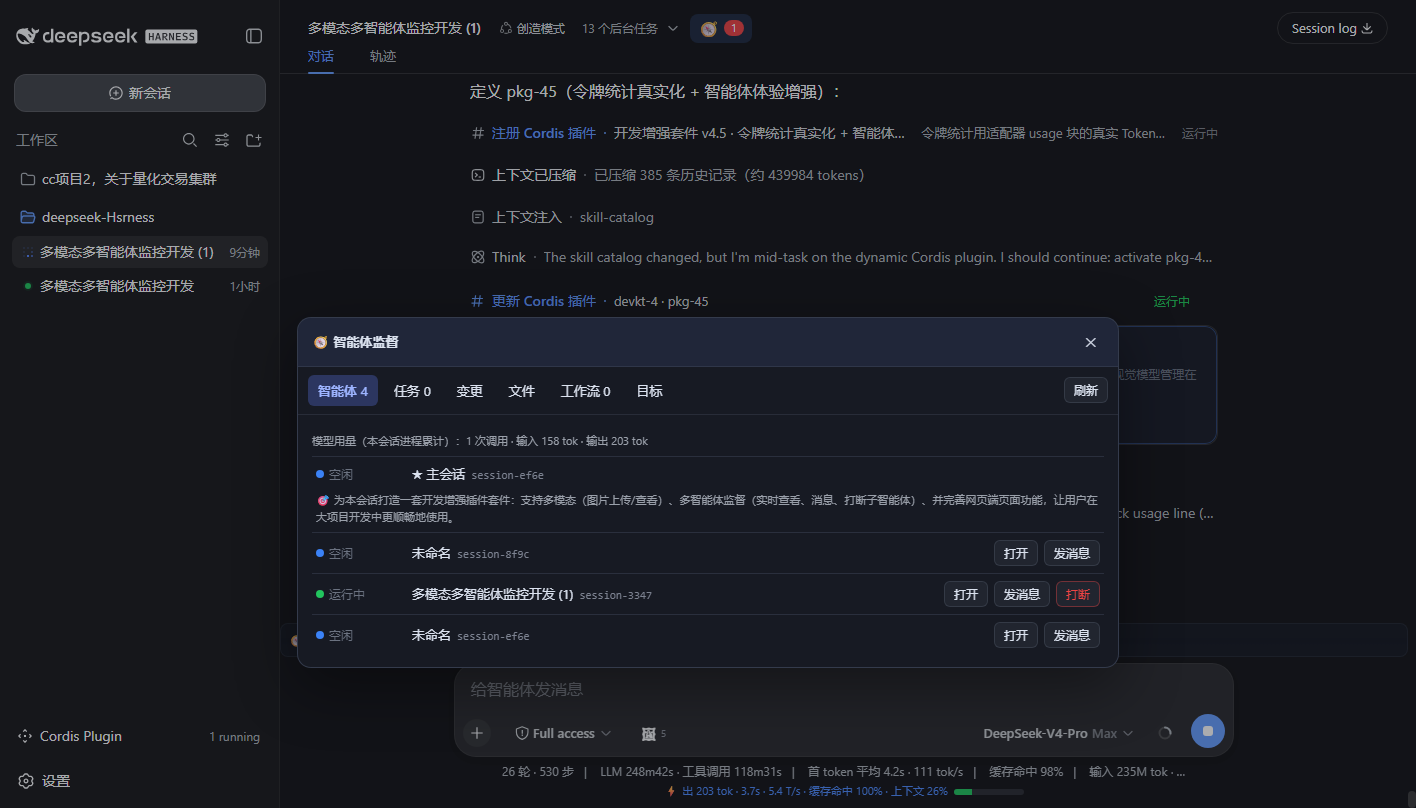
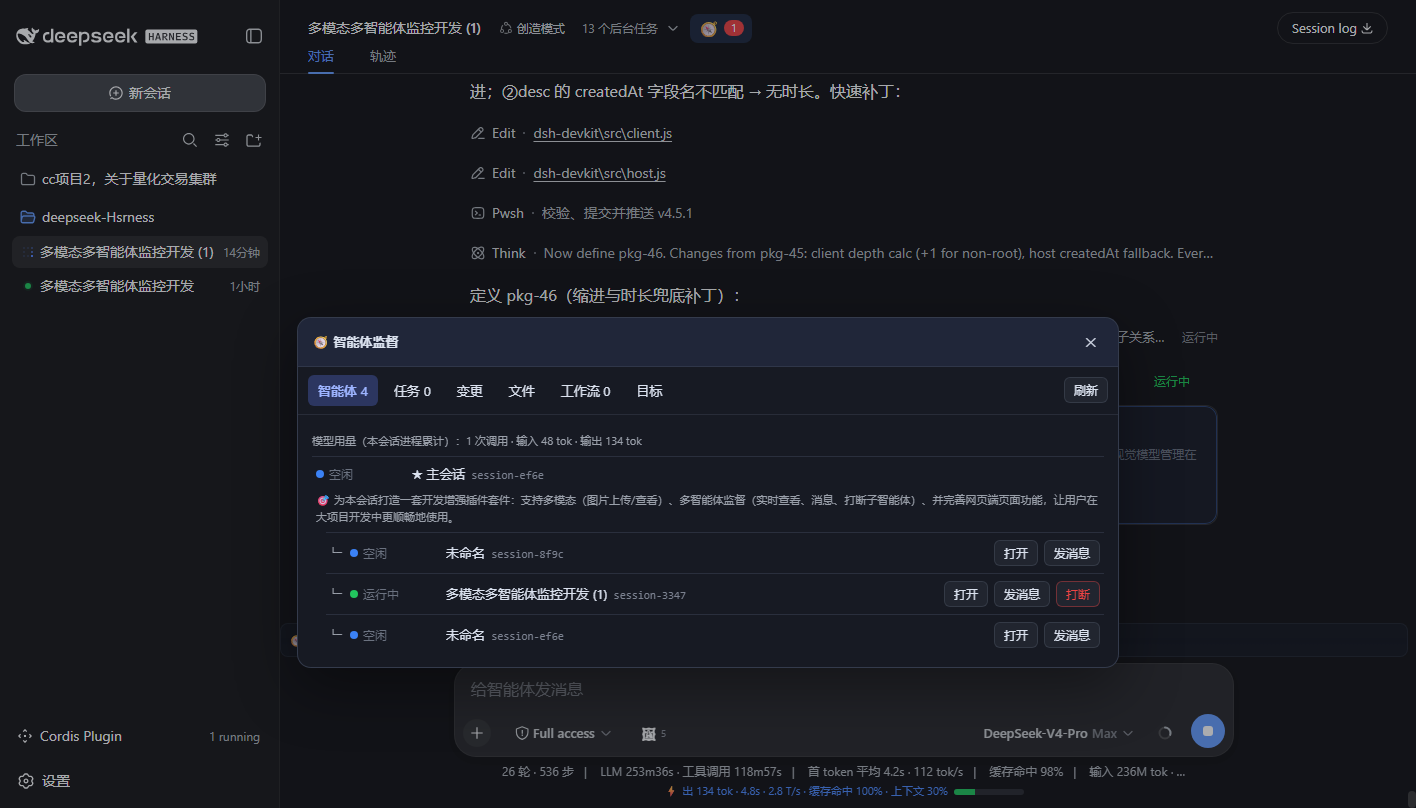
v4.5 截图与 README 更新日志

diff --git a/README.md b/README.md
@@ -120,6 +120,18 @@ dsh-devkit/
 
 ## 🕰 更新日志
 
+### v4.5（令牌统计真实化 + 智能体体验增强）
+- **令牌统计大修**：改用适配器 `usage` 块的真实 `TokenUsage`（不再启发式估算），显示 `出 X tok · 耗时 · T/s · 缓存命中% · 上下文%` + **上下文占用进度条**（>70% 变黄、>90% 变红，借鉴 dsh-TUI）
+- **智能体树形缩进**：按父子关系缩进显示（└─ 标记）
+- **运行时长**：每个智能体显示已运行时长
+- **打开会话**：一键跳转到子智能体的会话页面（`sessions.openSubagent`）
+- **主会话目标摘要**：🎯 一行显示当前目标
+- 任务看板卡片显示任务标签
+
+### v4.4（粘贴链路修复）
+- 全局粘贴识图改为**捕获阶段拦截**：焦点在聊天输入框内粘贴图片也能生效，并独占粘贴事件（不再被输入框抢走/当文本插入）
+- 粘贴失败时状态条明确提示原因
+
 ### v4.3（全面自检修复）
 - **修复「上下文占用%」不显示**：模型窗口字段实际在 `resolveModelInfo().context.contextWindow`（查 DSH 源码确认），原取值字段错误
 - **修复侧边栏收起（56px 轨道）时工作台按钮**：接收 owner props `wide`，收起时仅显示 🧰 图标
